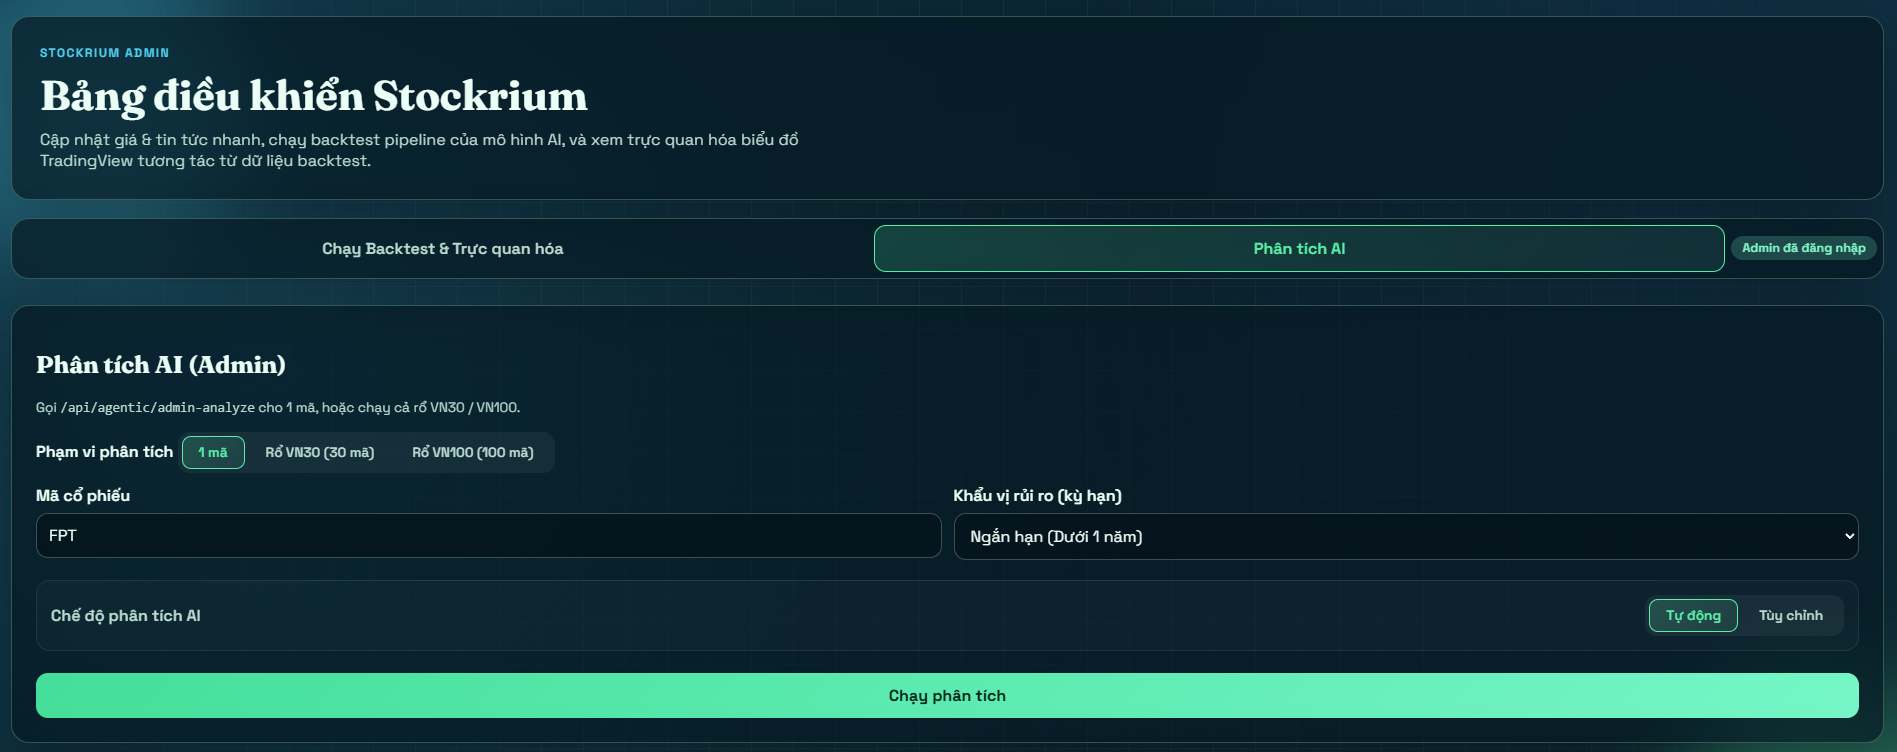
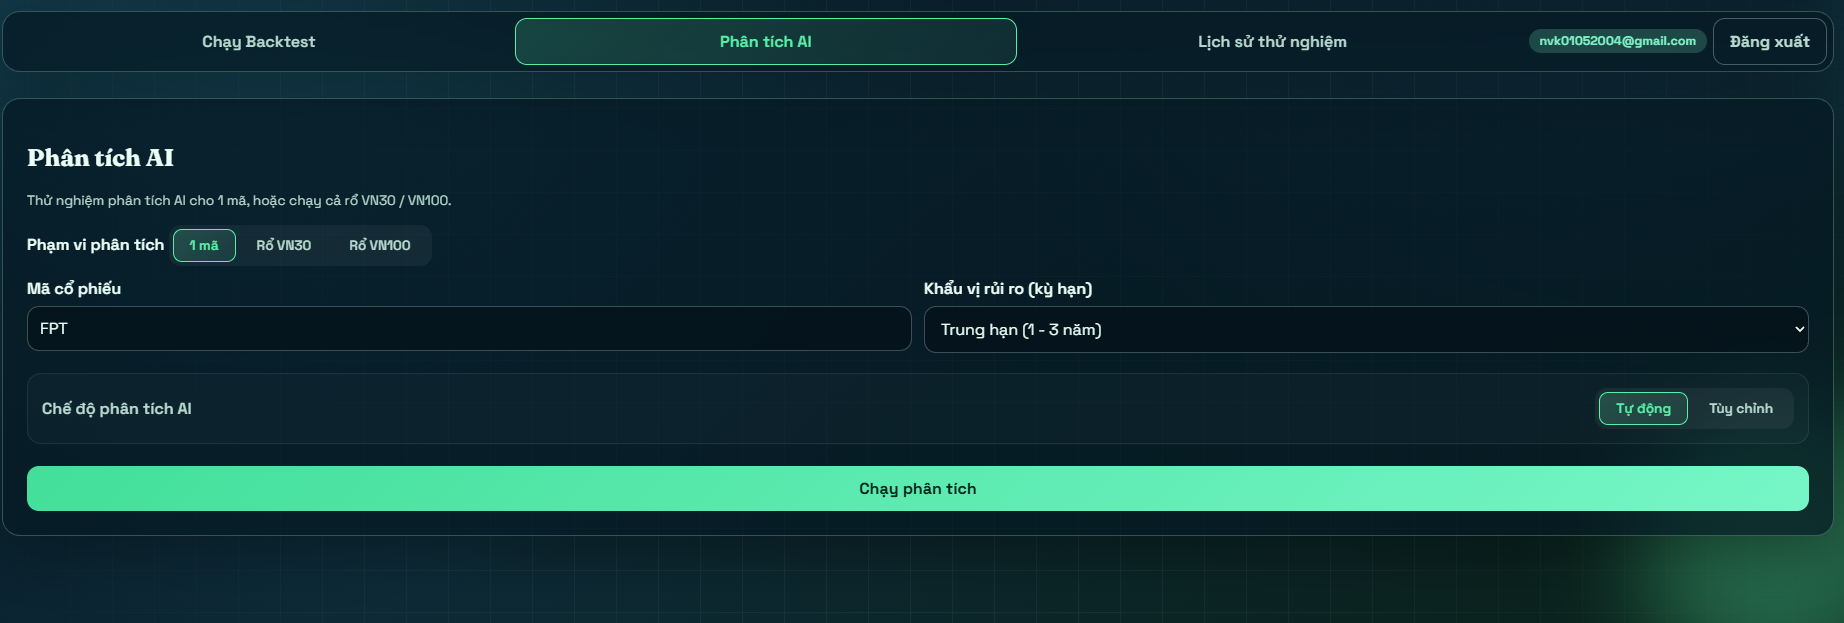
update report

diff --git a/report/chapters/chapter7/demo.tex b/report/chapters/chapter7/demo.tex
@@ -215,16 +215,16 @@ Figure~\ref{fig:stockrium-captures7}(a) is the chatbot entry point, where users 
 \section{Stockrium Lab Demo}
 \label{sec:demo-stockrium-lab}
 
-Figures~\ref{fig:stockrium-captures8}--\ref{fig:stockrium-captures11} demonstrate the principal Stockrium Lab workflows. The web interface gives authenticated users more space to configure an analysis or historical backtest, follow a longer-running operation, and inspect its detailed output. Each submitted run is associated with the current user so that its status and result can be revisited later.
+Figures~\ref{fig:stockrium-captures8}--\ref{fig:stockrium-captures13} demonstrate the principal Stockrium Lab workflows. The web interface gives authenticated users more space to configure an analysis or historical backtest, inspect detailed outputs, revisit personal run history, and compare compatible saved results. Each submitted run is associated with the current user and remains available with its configuration, status, and result.
 
 \begin{figure}[H]
     \centering
     \includegraphics[width=\textwidth,height=0.78\textheight,keepaspectratio]{screenshots/web1.png}
-    \caption{Stockrium Lab backtest configuration and saved-run access}
+    \caption{Stockrium Lab backtest configuration}
     \label{fig:stockrium-captures8}
 \end{figure}
 
-The configuration screen in Figure~\ref{fig:stockrium-captures8} records the security or supported basket, historical period, benchmark, score threshold, transaction fee, lookback window, holding-period fallback, and analysis mode before the user starts a backtest. A submitted backtest becomes a user-owned saved run whose progress is updated asynchronously. Previously saved results or supported JSON artifacts can be reopened for inspection without repeating the computation.
+The configuration screen in Figure~\ref{fig:stockrium-captures8} allows the user to select one security or the VN30 universe, set the historical period and benchmark, provide an optional fallback holding limit, choose whether to exit after a material score decrease, and select a supported pipeline mode. Submitting the form creates a user-owned run and starts the backtest through the asynchronous backend workflow.
 
 \begin{figure}[H]
     \centering
@@ -233,7 +233,7 @@ The configuration screen in Figure~\ref{fig:stockrium-captures8} records the sec
     \label{fig:stockrium-captures9}
 \end{figure}
 
-The result view in Figure~\ref{fig:stockrium-captures9} combines summary metrics with the available full-pipeline and technical-reference outputs. Entry and exit markers on the price chart and the associated trade journal make individual historical outcomes traceable. These values document what the tool produced under the selected configuration; they do not establish future profitability or the superiority of an investment strategy.
+The result view in Figure~\ref{fig:stockrium-captures9} compares the selected full pipeline with the technical baseline through trade count, win rate, return, Sharpe ratio, drawdown, and profit factor. Entry and exit markers on the price chart and the associated trade journal make individual simulated outcomes traceable. These values document what the tool produced under the saved configuration; they do not establish future profitability or the superiority of an investment strategy.
 
 \begin{figure}[H]
     \centering
@@ -242,7 +242,7 @@ The result view in Figure~\ref{fig:stockrium-captures9} combines summary metrics
     \label{fig:stockrium-captures10}
 \end{figure}
 
-Figure~\ref{fig:stockrium-captures10} allows a user to select one symbol or a supported stock universe, choose automatic or manual evidence settings, and start the multi-agent analysis. For a basket run, the interface can present progress and retain the completed or failed status of the corresponding saved record instead of requiring the initiating web request to remain open.
+Figure~\ref{fig:stockrium-captures10} allows a user to select one symbol, VN30, or VN100; choose the applicable investment horizon; and use automatic or manual analysis settings. Submitting the form creates an owned analysis record so that a single-stock or basket result can subsequently be reopened from personal history.
 
 \begin{figure}[H]
     \centering
@@ -251,8 +251,24 @@ Figure~\ref{fig:stockrium-captures10} allows a user to select one symbol or a su
     \label{fig:stockrium-captures11}
 \end{figure}
 
-Figure~\ref{fig:stockrium-captures11} exposes the aggregate assessment together with the technical, fundamental, and news evidence and explanations for the selected symbol. The user can therefore inspect how the multi-agent output was assembled rather than receiving only a final Buy-or-Wait label.
+Figure~\ref{fig:stockrium-captures11} exposes the completed aggregate assessment, component scores, proposed trading-plan fields, and the technical, fundamental, and news explanations for the selected symbol. The user can therefore inspect how the multi-agent output was assembled rather than receiving only a final Buy-or-Wait label.
 
-Beyond the detail views shown above, the Stockrium Lab history interface lists the current user's saved runs and supports filtering by run type and status. A user can reopen a completed record or select two to five owned records of the same type for side-by-side comparison of configurations, reproducibility metadata, and supported result fields. Ownership checks apply to history, details, comparisons, and stored artifacts, preventing one account from inspecting another account's results.
+\begin{figure}[H]
+    \centering
+    \includegraphics[width=\textwidth,height=0.78\textheight,keepaspectratio]{screenshots/web5.png}
+    \caption{Personal Stockrium Lab run history}
+    \label{fig:stockrium-captures12}
+\end{figure}
+
+Figure~\ref{fig:stockrium-captures12} lists the current user's saved AI-analysis and backtest runs. The interface supports filtering by type and status, preserves completed and failed outcomes, presents a concise result summary, and allows a selected record to be reopened. Checkboxes also let the user select up to five records before starting a comparison.
+
+\begin{figure}[H]
+    \centering
+    \includegraphics[width=\textwidth,height=0.78\textheight,keepaspectratio]{screenshots/web6.png}
+    \caption{Side-by-side comparison of saved Stockrium Lab runs}
+    \label{fig:stockrium-captures13}
+\end{figure}
+
+Figure~\ref{fig:stockrium-captures13} compares three completed backtests side by side. It aligns run identity, scope, mode, status, execution time, evidence configuration, backtest assumptions, and supported result measures so that differences can be inspected without manually combining separate reports. Highlighted values help the user locate the strongest displayed value within the selected records, but they do not identify a universally superior configuration or predict future performance. Ownership checks apply to history, details, comparisons, and stored artifacts, preventing one account from inspecting another account's results.
 
 Together, the screenshots demonstrate the intended division of work between Stockrium's clients: the mobile application supports frequent, compact investor tasks, whereas Stockrium Lab supports configuration, waiting, saved-result inspection, and comparison on the web. Both interfaces provide decision-support information only and remain separate from real securities order execution.
